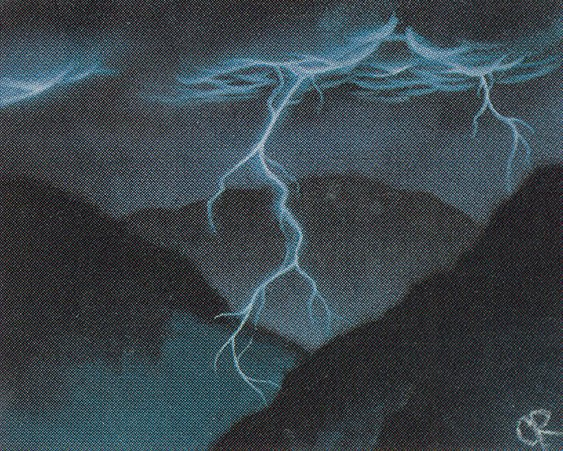
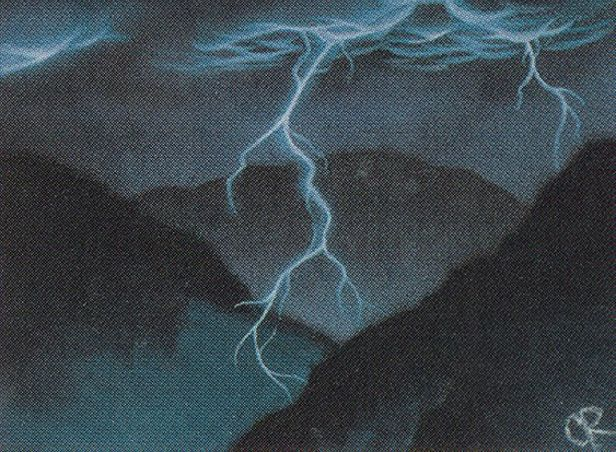
Updated deck links to moxfield, added new ones, and also adjusted the image sizes so the old arts were the same

diff --git a/PreWarLegacy.Frontend/app/routes/home.tsx b/PreWarLegacy.Frontend/app/routes/home.tsx
@@ -174,37 +174,45 @@ export default function Home() {
             <br></br>
 
             <div className="decksGrid">
-              <Deck imagePath={getDeckImage("dnt")} deckName="Death and Taxes" decklists={["https://www.mtggoldfish.com/deck/1831188#online", "https://www.mtggoldfish.com/deck/1811498#online", "https://mtgtop8.com/event?e=21720&d=346005&f=LE"]}></Deck>
-              <Deck imagePath={getDeckImage("grixisControl")} deckName="Grixis Control" decklists={["https://www.mtggoldfish.com/deck/1831202#online", "https://www.mtggoldfish.com/deck/1831198#online", "https://mtgtop8.com/event?e=21720&d=346004&f=LE"]}></Deck>
-              <Deck imagePath={getDeckImage("delver")} deckName="Izzet Delver" decklists={["https://www.mtggoldfish.com/deck/1807549#online", "https://mtgtop8.com/event?e=21754&d=346305&f=LE", "https://mtgtop8.com/event?e=21680&d=345674&f=LE"]}></Deck>
-              <Deck imagePath={getDeckImage("monoRedPrison")} deckName="Mono Red Prison" decklists={["https://www.mtggoldfish.com/deck/1811492#online", "https://www.mtggoldfish.com/deck/1811490#online", "https://mtgtop8.com/event?e=21701&d=345827&f=LE"]}></Deck>
-              <Deck imagePath={getDeckImage("sneakAndShow")} deckName="Sneak and Show" decklists={["https://www.mtggoldfish.com/deck/1811468#online", "https://www.mtggoldfish.com/deck/1811497#online", "https://mtgtop8.com/event?e=21711&d=345920&f=LE"]}></Deck>
-              <Deck imagePath={getDeckImage("miracles")} deckName="Miracles" decklists={["https://www.mtggoldfish.com/deck/1811471#online", "https://www.mtggoldfish.com/deck/1811486#online", "https://mtgtop8.com/event?e=21720&d=346003&f=LE"]}></Deck>
-              <Deck imagePath={getDeckImage("delver")} deckName="Grixis Delver" decklists={["https://www.mtggoldfish.com/deck/1811482#online", "https://www.mtggoldfish.com/deck/1829368#online", "https://mtgtop8.com/event?e=21624&d=345187&f=LE"]}></Deck>
-              <Deck imagePath={getDeckImage("golgariDepths")} deckName="Golgari Depths" decklists={["https://www.mtggoldfish.com/deck/1831206#online", "https://www.mtggoldfish.com/deck/1769886#online", "https://mtgtop8.com/event?e=21701&d=345822&f=LE"]}></Deck>
-              <Deck imagePath={getDeckImage("storm")} deckName="Storm" decklists={["https://www.mtggoldfish.com/deck/1811472#online", "https://www.mtggoldfish.com/deck/1811494#online", "https://mtgtop8.com/event?e=21754&d=346303&f=LE"]}></Deck>
-              <Deck imagePath={getDeckImage("stoneblade")} deckName="Stoneblade" decklists={["https://www.mtggoldfish.com/deck/1811469#online", "https://www.mtggoldfish.com/deck/1811474#online", "https://mtgtop8.com/event?e=21711&d=345914&f=LE"]}></Deck>
-              <Deck imagePath={getDeckImage("reanimator")} deckName="Reanimator" decklists={["https://www.mtggoldfish.com/deck/1811470#online", "https://www.mtggoldfish.com/deck/1831186#online", "https://mtgtop8.com/event?e=21711&d=345915&f=LE"]}></Deck>
-              <Deck imagePath={getDeckImage("maverick")} deckName="Maverick" decklists={["https://www.mtggoldfish.com/deck/1769914#online", "https://www.mtggoldfish.com/deck/1831189#online", "https://mtgtop8.com/event?e=21702&d=345831&f=LE"]}></Deck>
-              <Deck imagePath={getDeckImage("lands")} deckName="Lands" decklists={["https://www.mtggoldfish.com/deck/1831176#online", "https://www.mtggoldfish.com/deck/1831195#online", "https://mtgtop8.com/event?e=21711&d=345921&f=LE"]}></Deck>
-              <Deck imagePath={getDeckImage("deathsShadow")} deckName="Death's Shadow" decklists={["https://www.mtggoldfish.com/deck/1831196#online", "https://mtgtop8.com/event?e=21701&d=345824&f=LE", "https://mtgtop8.com/event?e=21754&d=346302&f=LE"]}></Deck>
-              <Deck imagePath={getDeckImage("delver")} deckName="Delver Variants" decklists={["https://www.mtggoldfish.com/deck/1811493#online", "https://mtgtop8.com/event?e=21754&d=346301&f=LE", "https://mtgtop8.com/event?e=21658&d=345466&f=LE"]}></Deck>
-              <Deck imagePath={getDeckImage("4cLoam")} deckName="4C Loam" decklists={["https://www.mtggoldfish.com/deck/1811500#online", "https://mtgtop8.com/event?e=21702&d=345829&f=LE", "https://mtgtop8.com/event?e=21676&d=345648&f=LE"]}></Deck>
-              <Deck imagePath={getDeckImage("elves")} deckName="Elves" decklists={["https://www.mtggoldfish.com/deck/1811487#online", "https://www.mtggoldfish.com/deck/1831194#online", "https://mtgtop8.com/event?e=21711&d=345918&f=LE"]}></Deck>
-              <Deck imagePath={getDeckImage("postEldrazi")} deckName="Post/Eldrazi" decklists={["https://www.mtggoldfish.com/deck/1811503#online", "https://www.mtggoldfish.com/deck/1811481#online", "https://mtgtop8.com/event?e=21711&d=345916&f=LE"]}></Deck>
-              <Deck imagePath={getDeckImage("dredge")} deckName="Dredge" decklists={["https://www.mtggoldfish.com/deck/1811483#online"]}></Deck>
-              <Deck imagePath={getDeckImage("burn")} deckName="Burn" decklists={["https://mtgtop8.com/event?e=21754&d=346306&f=LE"]}></Deck>
-              <Deck imagePath={getDeckImage("infect")} deckName="Infect" decklists={["https://mtgtop8.com/event?e=21399&d=343201&f=LE"]}></Deck>
-              <Deck imagePath={getDeckImage("painter")} deckName="Painter" decklists={["https://mtgtop8.com/event?e=21564&d=344657&f=LE"]}></Deck>
-              <Deck imagePath={getDeckImage("bomberman")} deckName="Bomberman" decklists={["https://mtgtop8.com/event?e=21470&d=343798&f=LE"]}></Deck>
-              <Deck imagePath={getDeckImage("czechPile")} deckName="Czech Pile" decklists={["https://mtgtop8.com/event?e=21423&d=343421&f=LE"]}></Deck>
-              <Deck imagePath={getDeckImage("affinity")} deckName="Affinity" decklists={["https://mtgtop8.com/event?e=21381&d=343004&f=LE"]}></Deck>
-              <Deck imagePath={getDeckImage("phoenix")} deckName="Phoenix" decklists={["https://mtgtop8.com/event?e=21381&d=343003&f=LE"]}></Deck>
-              <Deck imagePath={getDeckImage("foodChain")} deckName="Food Chain" decklists={["https://mtgtop8.com/event?e=21384&d=343084&f=LE"]}></Deck>
-              <Deck imagePath={getDeckImage("tinFins")} deckName="Tin Fins" decklists={["https://mtgtop8.com/event?e=21281&d=342301&f=LE"]}></Deck>
-              <Deck imagePath={getDeckImage("merfolk")} deckName="Merfolk" decklists={["https://mtgtop8.com/event?e=21281&d=342303&f=LE"]}></Deck>
-              <Deck imagePath={getDeckImage("enchantress")} deckName="Enchantress" decklists={["https://www.mtggoldfish.com/deck/1769884#online"]}></Deck>
-              <Deck imagePath={getDeckImage("stryfoPile")} deckName="Stryfo Pile" decklists={["https://mtgtop8.com/event?e=21720&d=346002&f=LE"]}></Deck>
+              <Deck imagePath={getDeckImage("dnt")} deckName="Death and Taxes" decklists={["https://moxfield.com/decks/jrEZ_2h620eYKupM4YI_rg", "https://moxfield.com/decks/BXI0V-iKkEyu04_2N49lKA"]}></Deck>
+              <Deck imagePath={getDeckImage("grixisControl")} deckName="Grixis Control" decklists={["https://moxfield.com/decks/HiF7OOo3xUaHrd_L0VF7Eg", "https://moxfield.com/decks/Ay0MToblRkqmcJuuPeRANw"]}></Deck>
+              <Deck imagePath={getDeckImage("delver")} deckName="Izzet Delver" decklists={["https://moxfield.com/decks/5F4eNwY36UKtNP-CIgsP2w", "https://moxfield.com/decks/2-Bvf5_YPk-G2nwNiy3yww"]}></Deck>
+              <Deck imagePath={getDeckImage("monoRedPrison")} deckName="Mono Red Prison" decklists={["https://moxfield.com/decks/RmUqgianCEGnpa8TQ3eYvA", "https://moxfield.com/decks/Z060mi04i0aO4kcLMmlBIA"]}></Deck>
+              <Deck imagePath={getDeckImage("sneakAndShow")} deckName="Sneak and Show" decklists={["https://moxfield.com/decks/UElpuq8sGkK0DZ5QVEnfPw", "https://moxfield.com/decks/Kc26xZjut0yx-7miLaUF0w"]}></Deck>
+              <Deck imagePath={getDeckImage("miracles")} deckName="Miracles" decklists={["https://moxfield.com/decks/_MRY-dTfBUiKrZTAfg22XQ", "https://moxfield.com/decks/xYfzueZOo0OE-QXDAsd2iA"]}></Deck>
+              <Deck imagePath={getDeckImage("delver")} deckName="Grixis Delver" decklists={["https://moxfield.com/decks/Rx-bfBdAKk6de25NJM03DA", "https://moxfield.com/decks/X6HopswYik-PW_N4U749aw"]}></Deck>
+              <Deck imagePath={getDeckImage("golgariDepths")} deckName="Golgari Depths" decklists={["https://moxfield.com/decks/9lp5o1DnuUOINKFJxtvHdQ", "https://moxfield.com/decks/6evOSA3Udk20Wx_3iN19iA"]}></Deck>
+              <Deck imagePath={getDeckImage("storm")} deckName="Storm" decklists={["https://moxfield.com/decks/bEoYrHWs60e-fRwekg9xOg", "https://moxfield.com/decks/uovrM4eM7Em1UWZqkjWdmg"]}></Deck>
+              <Deck imagePath={getDeckImage("stoneblade")} deckName="Stoneblade" decklists={["https://moxfield.com/decks/U64ut-UMCEeRyMGG63zPZg", "https://moxfield.com/decks/8Q80iA_WfkqYPk5MczMXvA"]}></Deck>
+              <Deck imagePath={getDeckImage("reanimator")} deckName="Reanimator" decklists={["https://moxfield.com/decks/xm2ZXADCw06mnqE-SeNPBw", "https://moxfield.com/decks/YxO3rdcNHk6mRf1WtM3Iig"]}></Deck>
+              <Deck imagePath={getDeckImage("maverick")} deckName="Maverick" decklists={["https://moxfield.com/decks/8x9fYWBrF0-kIqTJhW-x_A", "https://moxfield.com/decks/1GRlqukRVEqCtNIcnIenyg"]}></Deck>
+              <Deck imagePath={getDeckImage("lands")} deckName="Lands" decklists={["https://moxfield.com/decks/nuyg9jfnIkyL-sybdUEucg", "https://moxfield.com/decks/E4gqnibdO0mOiOn8aODJqg"]}></Deck>
+              <Deck imagePath={getDeckImage("deathsShadow")} deckName="Death's Shadow" decklists={["https://moxfield.com/decks/F3AcbCt8hkKunuAyl_JHgA", "https://moxfield.com/decks/OgvB-98LikGk-IzeBwldFA"]}></Deck>
+              <Deck imagePath={getDeckImage("delver")} deckName="RUG Delver" decklists={["https://moxfield.com/decks/7CBdhuSXPk-onDAgcL99cg", "https://moxfield.com/decks/U3J4szNU0kOC5bkYPFZp_w"]}></Deck>
+              <Deck imagePath={getDeckImage("delver")} deckName="BUG Delver" decklists={["https://moxfield.com/decks/hi8ljTeBeEabhrezif6uMw", "https://moxfield.com/decks/iyuleItVY0Gv9NeTTSc1ag"]}></Deck>
+              <Deck imagePath={getDeckImage("4cLoam")} deckName="4C Loam" decklists={["https://moxfield.com/decks/2FLFn2aSGkK7R-5f6bwqiA", "https://moxfield.com/decks/-JW2xoK89ESk5yXL8H6OoA"]}></Deck>
+              <Deck imagePath={getDeckImage("elves")} deckName="Elves" decklists={["https://moxfield.com/decks/u97Cv2qJqUe4_0C96dc4RQ", "https://moxfield.com/decks/C54tgufC00Sk5IJtjidrbA"]}></Deck>
+              <Deck imagePath={getDeckImage("postEldrazi")} deckName="Post/Eldrazi" decklists={["https://moxfield.com/decks/ko0kp7B-GUGU5DAeY5KIkg", "https://moxfield.com/decks/EV99NDpfZ0GmKYi2DedH4Q"]}></Deck>
+              <Deck imagePath={getDeckImage("titanPost")} deckName="Titan Post" decklists={["https://moxfield.com/decks/aU0tdptw0EyNcAQNoRWljA", "https://moxfield.com/decks/syp2fDXD0keSr7YxJKTepA"]}></Deck>
+              <Deck imagePath={getDeckImage("dredge")} deckName="Dredge" decklists={["https://moxfield.com/decks/af_TNvnL5ke6jaEASrB4sA", "https://moxfield.com/decks/o4Y78fFDg0yvPPJOEmdUjA"]}></Deck>
+              <Deck imagePath={getDeckImage("burn")} deckName="Burn" decklists={["https://moxfield.com/decks/1WlwMrbwGEWCc1wbdiyiKg", "https://moxfield.com/decks/c9zrt-e1U0GM90Wo8ZwcBg"]}></Deck>
+              <Deck imagePath={getDeckImage("infect")} deckName="Infect" decklists={["https://moxfield.com/decks/wZn-lIzquEmvLhSpLr_xSw", "https://moxfield.com/decks/9N95WqXP7EenzvJrk7hJVg"]}></Deck>
+              <Deck imagePath={getDeckImage("painter")} deckName="Painter" decklists={["https://moxfield.com/decks/QbCRdiMhX0KM_T00eDdWwg", "https://moxfield.com/decks/PmF7BDofyUWNwLmfTki7yQ"]}></Deck>
+              <Deck imagePath={getDeckImage("enchantress")} deckName="Enchantress" decklists={["https://moxfield.com/decks/y-zK_6prAEGtqROEHNwyxQ", "https://moxfield.com/decks/Wf-btwbOVUWnWBZx6P9BHg"]}></Deck>
+              <Deck imagePath={getDeckImage("bomberman")} deckName="Bomberman" decklists={["https://moxfield.com/decks/zfWvihKL9kiaBXiP9mFj1Q", "https://moxfield.com/decks/p5NpwAorm0C4vGNhKa8DVA"]}></Deck>
+              <Deck imagePath={getDeckImage("leovold")} deckName="Czech Pile" decklists={["https://moxfield.com/decks/O3i7NDLanEO3P9lhpqPN9g", "https://moxfield.com/decks/ntxpHbUZQEiwAO4l6U9W_A"]}></Deck>
+              <Deck imagePath={getDeckImage("phoenix")} deckName="Phoenix" decklists={["https://moxfield.com/decks/bn2xhcgPAEq57y585psHwA", "https://moxfield.com/decks/sOeW3hSyqk6mZB0n0XpADg"]}></Deck>
+              <Deck imagePath={getDeckImage("foodChain")} deckName="Food Chain" decklists={["https://moxfield.com/decks/Psnawac7N06bQwsrs_0Jiw", "https://moxfield.com/decks/xVEWXmdP1EWZ9YwzgU8jvA"]}></Deck>
+              <Deck imagePath={getDeckImage("tinFins")} deckName="Tin Fins" decklists={["https://moxfield.com/decks/viNs_l3_ZEu_00N-8bS9HA", "https://moxfield.com/decks/jCZOb8So4UaDCgoL0w4tCA"]}></Deck>
+              <Deck imagePath={getDeckImage("leovold")} deckName="BUG Control" decklists={["https://moxfield.com/decks/IqGmr4GlqE2xlxySKBE4Pg", "https://moxfield.com/decks/kcwkF-OXUECUxUW6pEcU7A"]}></Deck>
+              <Deck imagePath={getDeckImage("aluren")} deckName="Aluren" decklists={["https://moxfield.com/decks/tSweRjcMmUmgDSwNYA3Y_g", "https://moxfield.com/decks/xcfqHC0MfEmGt1CmvbK81A"]}></Deck>
+              <Deck imagePath={getDeckImage("nicFit")} deckName="Nic Fit" decklists={["https://moxfield.com/decks/qx4nAWSuUEGpiw6gegFBdQ", "https://moxfield.com/decks/OEi6yr0uhkWXz0QbHHgG0w"]}></Deck>
+              <Deck imagePath={getDeckImage("belcher")} deckName="Belcher" decklists={["https://moxfield.com/decks/N55fk_u9XkmNwpip88aHKw", "https://moxfield.com/decks/thXS8JFu90GiUp0a8z3kAw"]}></Deck>
+              <Deck imagePath={getDeckImage("affinity")} deckName="Artifact Stompy" decklists={["https://moxfield.com/decks/Z0OErizWBUiWhtnTMVlHqg", "https://moxfield.com/decks/hT4RDt_Q8UmXswUxfFDL4w"]}></Deck>
+              <Deck imagePath={getDeckImage("merfolk")} deckName="Merfolk" decklists={["https://moxfield.com/decks/kQ2kjg8dKU-JNAN9vsbwaQ", "https://moxfield.com/decks/G0wNa9w0tUS1Lb8Qo4aUKg"]}></Deck>
+              <Deck imagePath={getDeckImage("goblins")} deckName="Goblins" decklists={["https://moxfield.com/decks/BR8_rjBOMka158vXLv-qZA", "https://moxfield.com/decks/jwonrbvmxk26-UcLZyEGVQ"]}></Deck>
+              <Deck imagePath={getDeckImage("pox")} deckName="Pox" decklists={["https://moxfield.com/decks/T8HVmAfXfUiC7UKz2pk_vg", "https://moxfield.com/decks/qirIUVBnoEqOMwafAxVY0Q"]}></Deck>
+              <Deck imagePath={getDeckImage("tezzerator")} deckName="Tezzerator" decklists={["https://moxfield.com/decks/yEDWOsCHAUm0_hn-3G492w", "https://moxfield.com/decks/3d7dkBpYYU-gpAVdkbCXNA"]}></Deck>
             </div>
           </section>
         )}
